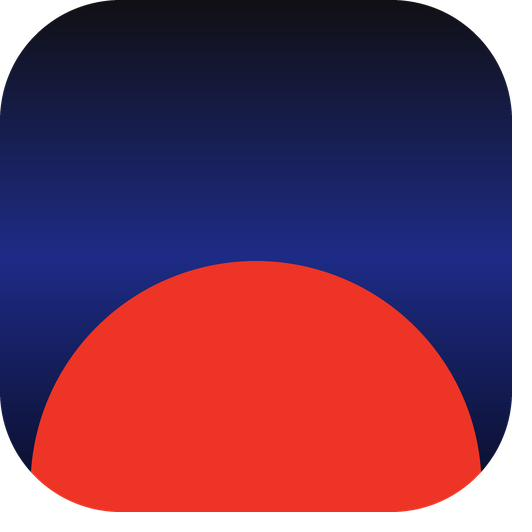
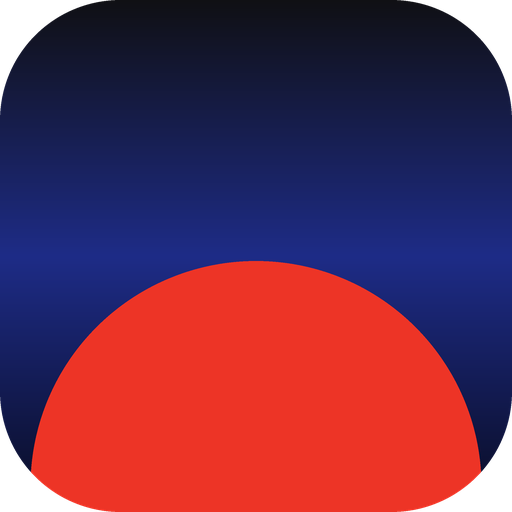
Add files via upload

diff --git a/index.html b/index.html
@@ -1929,8 +1929,12 @@ function addToSessionModal(){
     lib.filter(s=>selected.has(s.id)).forEach(s=>session.push({...s,qid:uid()}));
     save();closeModal();renderSetup();
   };
+  window._createForSession=()=>{
+    addStretchModal({onSave:s=>{session.push({...s,qid:uid()});save();renderSetup();addToSessionModal();}});
+  };
   openModal(`<p style="font-size:18px;font-weight:500;margin-bottom:12px">Add stretches</p>
     <input class="fi" id="m-add-search" placeholder="Search stretches…" oninput="_addSearch()" style="margin-bottom:12px">
+    <button class="btn" style="width:100%;margin-bottom:12px" onclick="_createForSession()">+ create new stretch</button>
     <div id="m-add-list" style="max-height:50vh;overflow-y:auto"></div>
     <div style="display:flex;gap:8px;margin-top:14px;align-items:center">
       <span id="m-add-count" style="flex:1;font-size:12px;color:var(--muted);font-family:'JetBrains Mono',monospace"></span>
@@ -1939,7 +1943,8 @@ function addToSessionModal(){
     </div>`);
   renderList();
 }
-function addStretchModal(){
+function addStretchModal(opts){
+  window._addStretchOpts=opts||null;
   openModal(`<p style="font-size:18px;font-weight:500;margin-bottom:14px">Custom stretch</p>
     <label class="fl">Name</label><input class="fi" id="m-cn" placeholder="e.g. Side bend">
     <label class="fl">Category</label><select class="fi" id="m-ca">${CATS.map(a=>`<option value="${a}">${a}</option>`).join('')}</select>
@@ -1948,13 +1953,17 @@ function addStretchModal(){
     <label class="fl">Duration (seconds)</label><input class="fi" type="number" id="m-cdur" value="30" min="5" max="300">
     <div style="display:flex;align-items:center;gap:10px;margin:8px 0"><label class="tog"><input type="checkbox" id="m-cbil"><span class="tog-sl"></span></label><div style="font-size:13px">Bilateral (switch-side alert)</div></div>
     <div style="display:flex;align-items:center;gap:10px;margin-bottom:12px"><label class="tog"><input type="checkbox" id="m-cpnf"><span class="tog-sl"></span></label><div style="font-size:13px">PNF (tense/relax)</div></div>
-    <div style="display:flex;gap:8px"><button class="btn ac" style="flex:1" onclick="confirmAddStretch()">Add to library</button><button class="btn" onclick="closeModal()">Cancel</button></div>`);
+    <div style="display:flex;gap:8px"><button class="btn ac" style="flex:1" onclick="confirmAddStretch()">${opts&&opts.onSave?'Add':'Add to library'}</button><button class="btn" onclick="closeModal()">Cancel</button></div>`);
   setTimeout(()=>document.getElementById('m-cn')?.focus(),80);
 }
 function confirmAddStretch(){
   const n=document.getElementById('m-cn')?.value.trim();if(!n)return;
-  lib.push({id:slugId(n),name:n,area:document.getElementById('m-ca').value,cat:document.getElementById('m-ca').value,desc:document.getElementById('m-cd').value.trim(),cues:document.getElementById('m-cc').value.trim(),dur:+document.getElementById('m-cdur').value||30,bilateral:document.getElementById('m-cbil').checked,pnf:document.getElementById('m-cpnf').checked});
-  save();closeModal();renderLib();
+  const s={id:slugId(n),name:n,area:document.getElementById('m-ca').value,cat:document.getElementById('m-ca').value,desc:document.getElementById('m-cd').value.trim(),cues:document.getElementById('m-cc').value.trim(),dur:+document.getElementById('m-cdur').value||30,bilateral:document.getElementById('m-cbil').checked,pnf:document.getElementById('m-cpnf').checked};
+  lib.push(s);
+  save();
+  const opts=window._addStretchOpts;window._addStretchOpts=null;
+  if(opts&&opts.onSave){closeModal();opts.onSave(s);}
+  else{closeModal();renderLib();}
 }
 
 /* ── EXPORT / IMPORT ── */